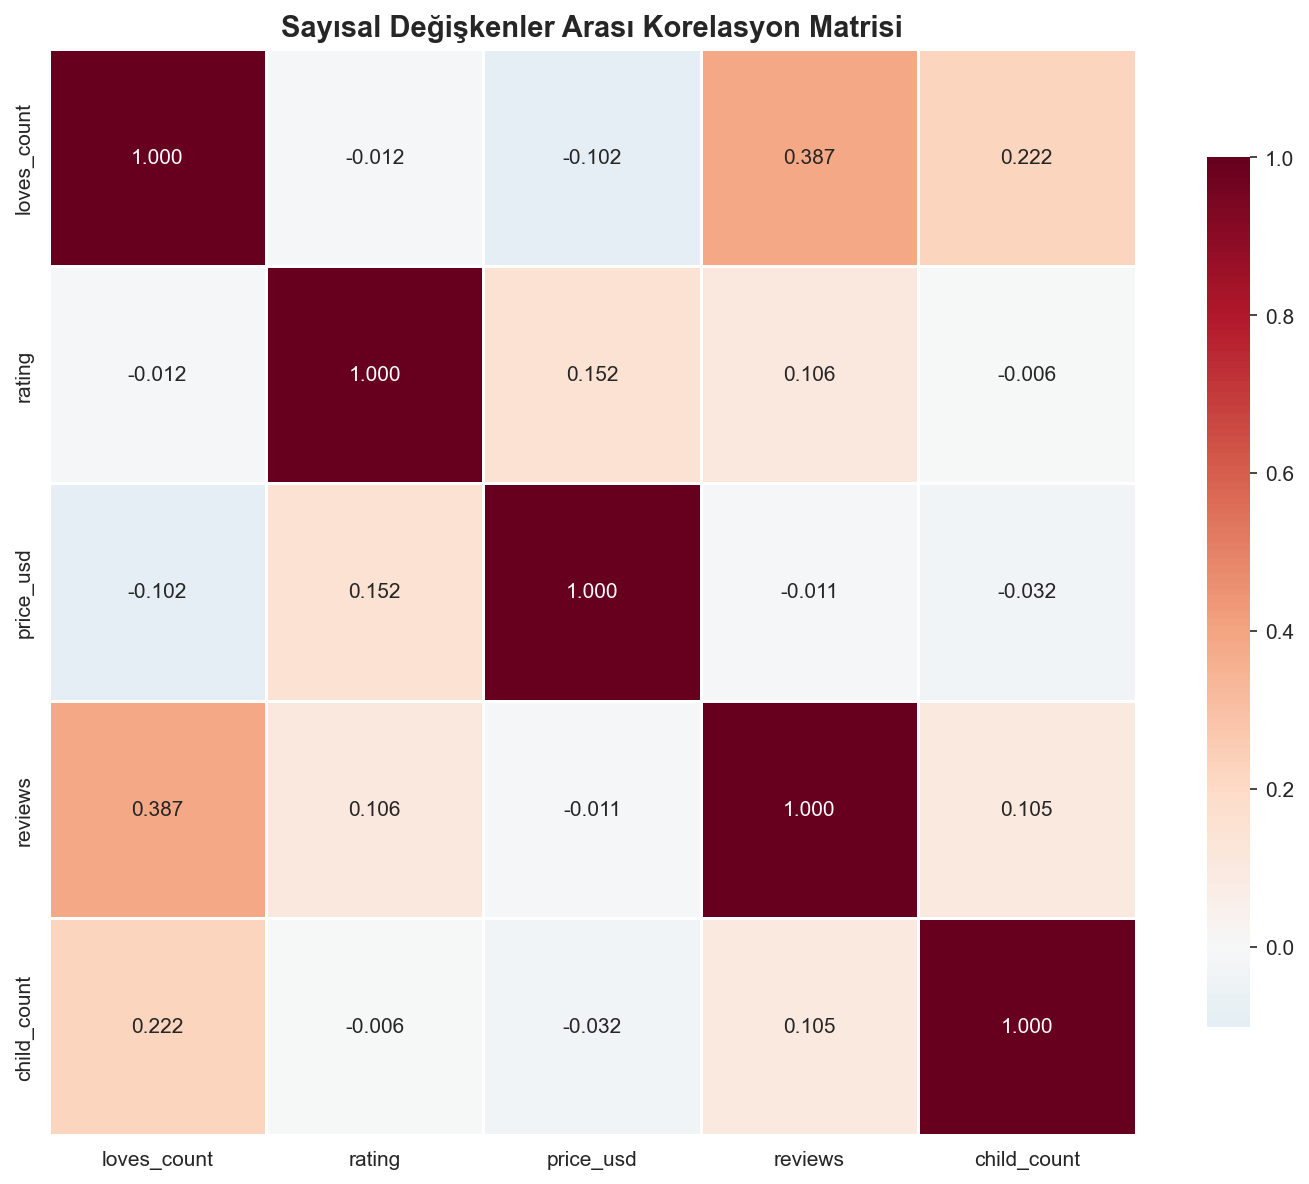
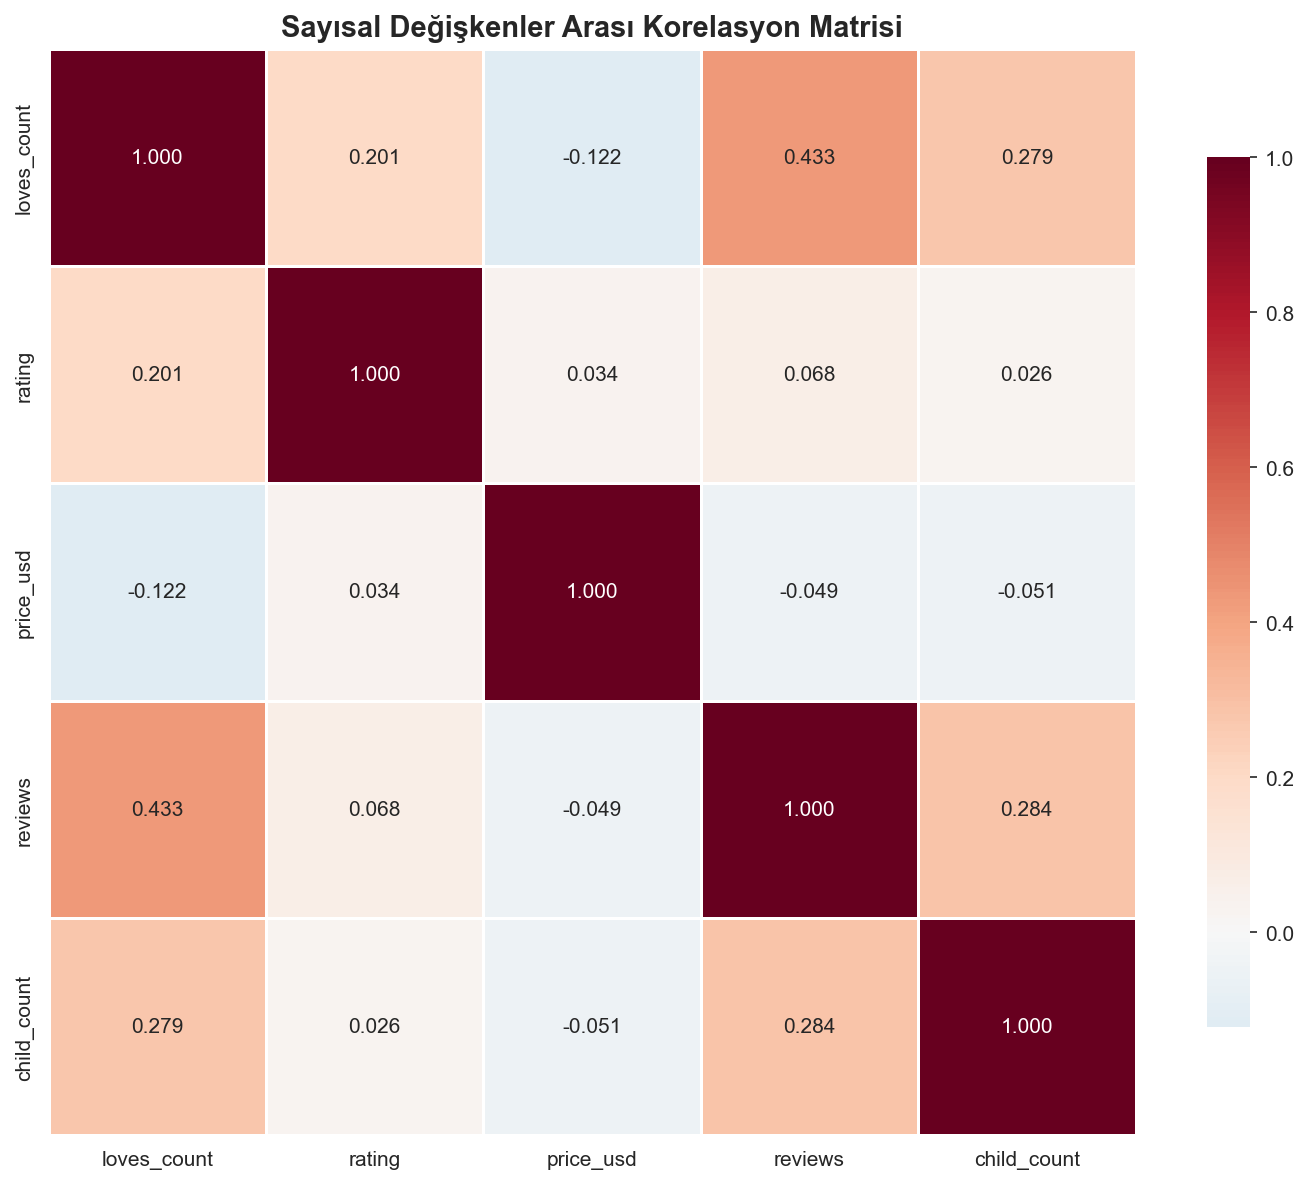
log eklendi

diff --git a/analiz (1).py b/analiz (1).py
@@ -123,82 +123,52 @@ for col in kategorik_sutunlar:
 # Doldurma sonrası kontrol
 kalan_eksik = df.isnull().sum().sum()
 print(f"\n🎯 Doldurma sonrası toplam eksik veri: {kalan_eksik}")
-
 # ============================================================================
-# BÖLÜM 3: AYKIRI DEĞER TEMİZLİĞİ (IQR YÖNTEMİ)
+# BÖLÜM 3: AYKIRI DEĞER YÖNETİMİ (LOGARİTMİK DÖNÜŞÜM)
 # ============================================================================
 print("\n" + "=" * 80)
-print("BÖLÜM 3: AYKIRI DEĞER TEMİZLİĞİ (IQR YÖNTEMİ)")
+print("BÖLÜM 3: AYKIRI DEĞER YÖNETİMİ (LOGARİTMİK DÖNÜŞÜM)")
 print("=" * 80)
 
 # -------------------------------------------------------------------------
-# IQR (Interquartile Range / Çeyrekler Arası Açıklık) Yöntemi:
-#   Q1 = %25'lik değer (1. çeyrek)
-#   Q3 = %75'lik değer (3. çeyrek)
-#   IQR = Q3 - Q1
-#   Alt Sınır = Q1 - 1.5 * IQR
-#   Üst Sınır = Q3 + 1.5 * IQR
-#   Bu sınırların dışında kalan değerler "aykırı" kabul edilip çıkarılır.
-#
-# Neden IQR? Ortalama ve standart sapma temelli yöntemler (z-skoru gibi)
-# normal dağılım varsayar. IQR ise dağılımdan bağımsız çalışır ve
-# aykırı değerlerin kendisinden de etkilenmez.
+# LOGARİTMİK DÖNÜŞÜM STRATEJİSİ:
+# E-ticaret verilerinde (beğeni sayısı, fiyat vb.) veriler genellikle 
+# sağa çarpık (right-skewed) dağılır. Yani az sayıda ürün devasa değerlere 
+# sahipken, çoğunluk düşük değerlerde toplanır.
+# 
+# IQR ile veri silmek yerine, np.log1p() dönüşümü uygulayarak:
+# 1. Aşırı büyük değerlerin (outliers) etkisini baskılıyoruz.
+# 2. Dağılımı normal dağılıma yaklaştırıyoruz.
+# 3. %40'lara varan veri kaybını önleyip 8495 satırın tamamını koruyoruz.
 # -------------------------------------------------------------------------
 
-# Temizlenecek değişkenler
-temizlenecek_degiskenler = ['loves_count', 'rating', 'price_usd']
+# Dönüşüm uygulanacak çarpık (skewed) değişkenler
+# 'rating' sütunu 0-5 arası ve nispeten dar aralıklı olduğu için genelde log alınmaz.
+donusum_degiskenleri = ['loves_count', 'price_usd']
 
-# Temizlik öncesi veri boyutu
-onceki_boyut = len(df)
-print(f"\n📊 Temizlik ÖNCESİ veri boyutu: {onceki_boyut} satır")
+df_oncesi = df.copy() # Grafikler için eski hali sakla
 
-# Her değişken için IQR temizliği uygula
-print(f"\n🔧 IQR Temizliği Detayları:")
-print("-" * 70)
-print(f"   {'Değişken':<20} {'Q1':>10} {'Q3':>10} {'IQR':>10} {'Alt Sınır':>12} {'Üst Sınır':>12}")
-print("-" * 70)
-
-# Temizlik öncesi verileri histogram/boxplot için sakla
-df_oncesi = df.copy()
-# --- BU BLOĞU df_oncesi = df.copy() SATIRININ ÜZERİNE YAPIŞTIR ---
+# Hem df_oncesi hem de df için veri tiplerini güvene al
 for col in ['loves_count', 'rating', 'price_usd']:
+    df_oncesi[col] = pd.to_numeric(df_oncesi[col], errors='coerce')
     df[col] = pd.to_numeric(df[col], errors='coerce')
 
-# Şimdi kopyayı al (artık veriler sayı formatında)
-df_oncesi = df.copy()
-for col in temizlenecek_degiskenler:
- 
-    
-    Q1 = df[col].quantile(0.25)
-    # ... (kodun geri kalanı aynı)
-    Q1 = df[col].quantile(0.25)
-    Q3 = df[col].quantile(0.75)
-    IQR = Q3 - Q1
-    alt_sinir = Q1 - 1.5 * IQR
-    ust_sinir = Q3 + 1.5 * IQR
+print(f"\n📊 Dönüşüm ÖNCESİ veri boyutu: {len(df_oncesi)} satır")
 
-    print(f"   {col:<20} {Q1:>10.2f} {Q3:>10.2f} {IQR:>10.2f} {alt_sinir:>12.2f} {ust_sinir:>12.2f}")
+print(f"\n🔧 Logaritmik Dönüşüm Detayları:")
+print("-" * 50)
 
-    # Aykırı değerleri filtrele
-    aykiri_sayisi = ((df[col] < alt_sinir) | (df[col] > ust_sinir)).sum()
-    df = df[(df[col] >= alt_sinir) & (df[col] <= ust_sinir)]
-    print(f"   → '{col}' sütunundan {aykiri_sayisi} aykırı değer çıkarıldı.")
+# np.log1p (log(1+x)) uygula. (x=0 durumunda hata vermemesi için log yerine log1p kullanılır)
+for col in donusum_degiskenleri:
+    df[col] = np.log1p(df[col])
+    print(f"   ✅ '{col}' sütununa logaritmik dönüşüm uygulandı.")
 
-# Temizlik sonrası veri boyutu
-sonraki_boyut = len(df)
-print(f"\n📊 Temizlik SONRASI veri boyutu: {sonraki_boyut} satır")
+print(f"\n📊 Dönüşüm SONRASI veri boyutu: {len(df)} satır (VERİ KAYBI YOK)")
 
-# Temizlik öncesi/sonrası karşılaştırma tablosu
-print(f"\n{'='*60}")
-print(f" AYKIRI DEĞER TEMİZLİĞİ ÖZET TABLOSU")
-print(f"{'='*60}")
-print(f"   {'Metrik':<35} {'Değer':>15}")
-print(f"   {'-'*50}")
-print(f"   {'Temizlik Öncesi Satır Sayısı':<35} {onceki_boyut:>15,}")
-print(f"   {'Temizlik Sonrası Satır Sayısı':<35} {sonraki_boyut:>15,}")
-print(f"   {'Çıkarılan Toplam Satır':<35} {onceki_boyut - sonraki_boyut:>15,}")
-print(f"   {'Veri Kaybı Oranı':<35} {((onceki_boyut - sonraki_boyut) / onceki_boyut * 100):>14.2f}%")
-print(f"{'='*60}")
+print(f"\n📝 Yorum: Logaritmik dönüşüm sayesinde aşırı yüksek fiyatlı ve çok ")
+print(f"   sayıda beğeni alan 'viral/lüks' ürünlerin ortalamayı ve testleri ")
+print(f"   bozacak şiddeti azaltıldı. Veri kaybı yaşanmadan daha güvenilir ")
+print(f"   bir analiz ortamı oluşturuldu.")
 
 # ============================================================================
 # BÖLÜM 4: DAĞILIM ANALİZİ VE NORMALLİK TESTİ
